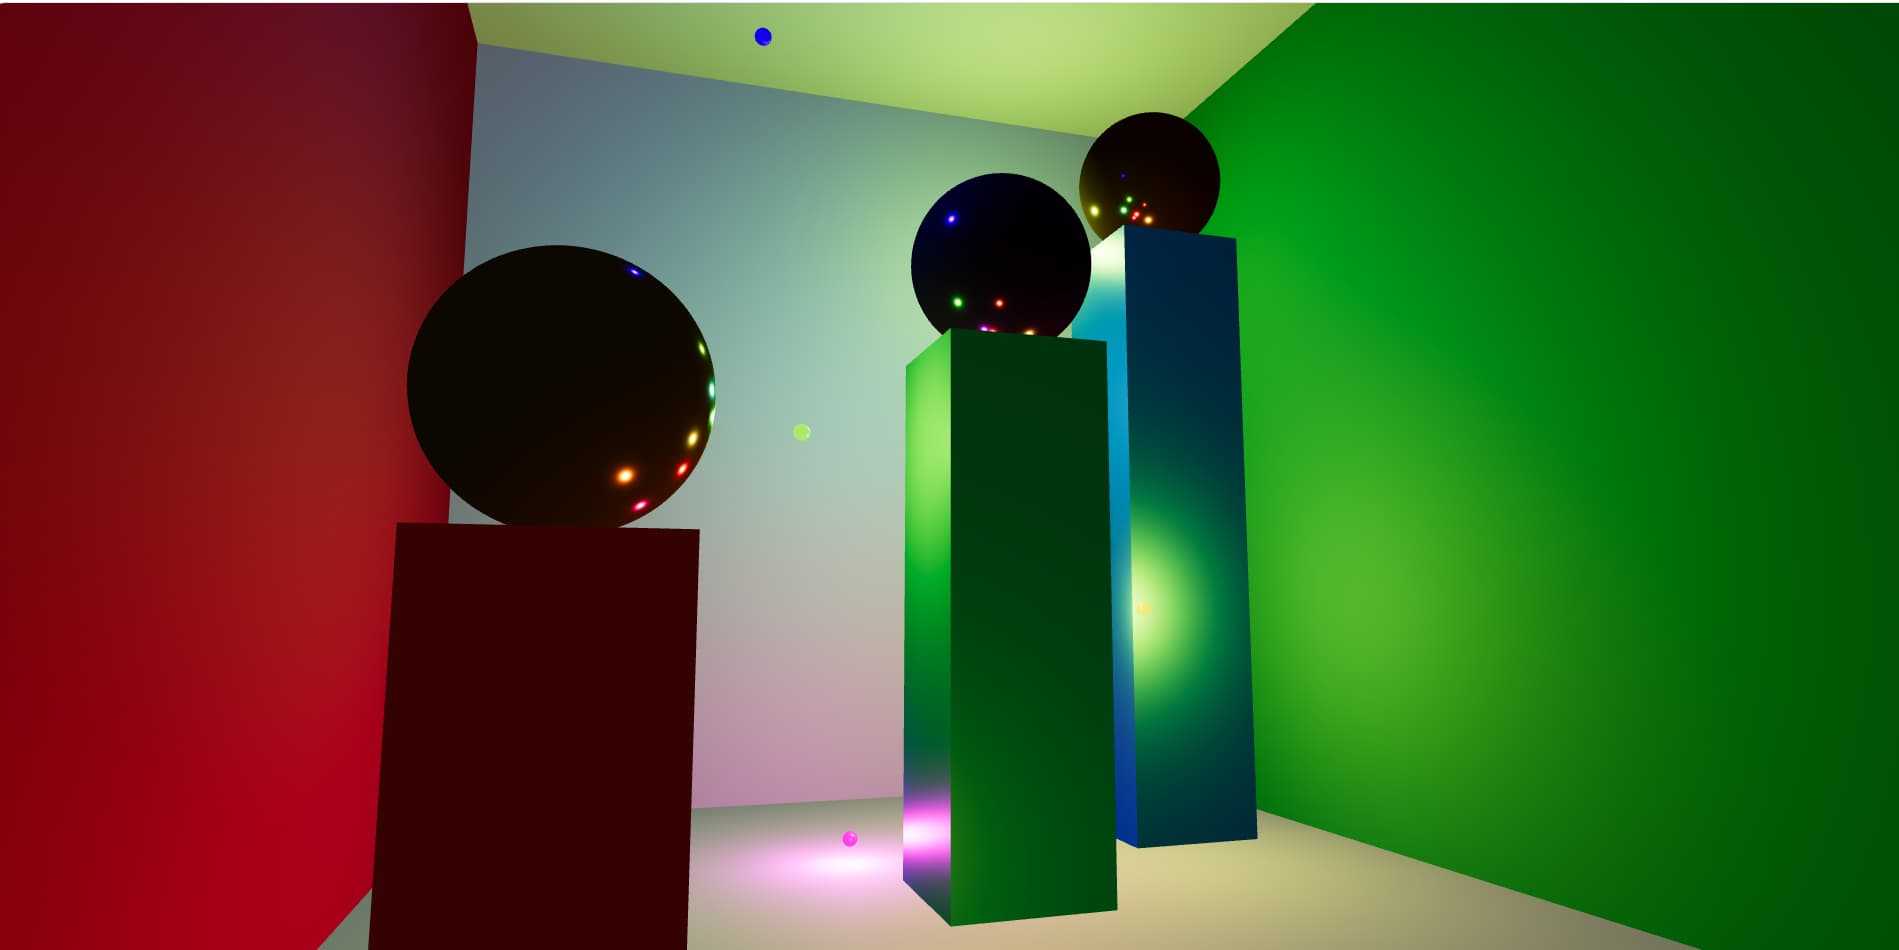
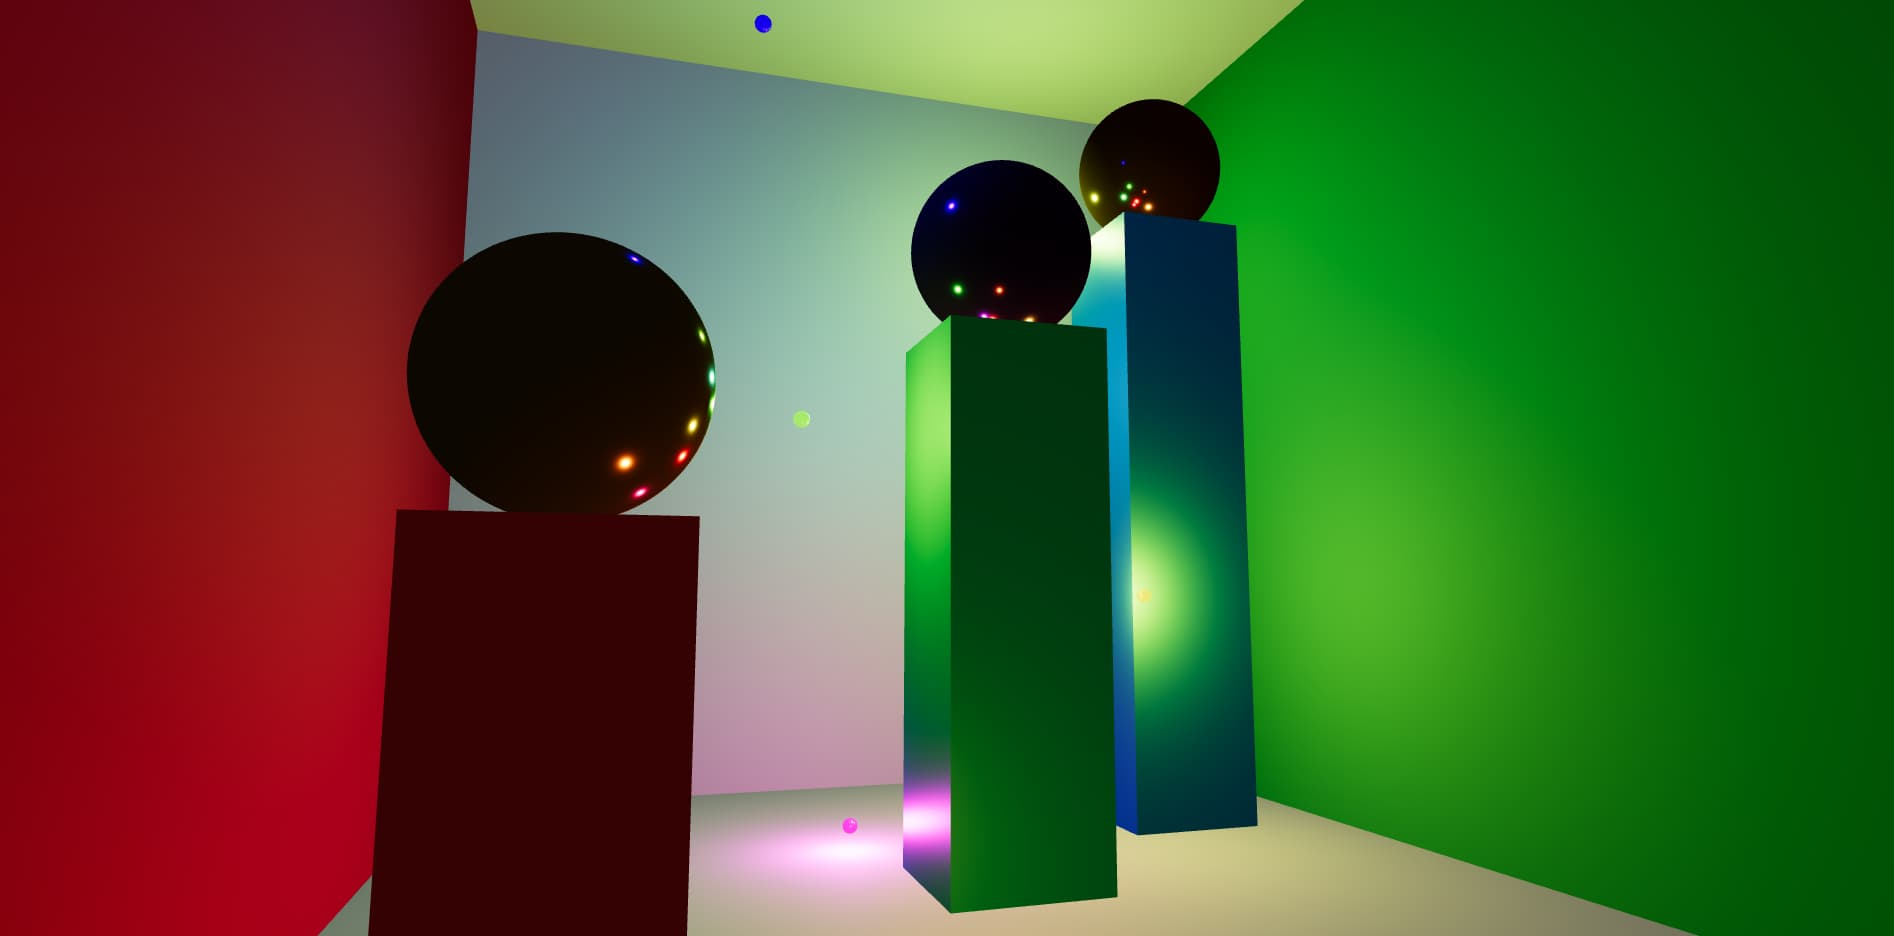
Refactor: update README structure and remove unused SVG preview

diff --git a/README.md b/README.md
@@ -1,24 +1,12 @@
-<div align="center">
+![Preview](img/preview.jpg)
+<div>
 
 # Cornell Box
 
 ### *An interactive lighting scene built with Three.js*
-
-![Preview](img/preview.jpg)
-
 <br/>
-
-![Three.js](https://img.shields.io/badge/Three.js-v0.164-black?style=flat-square&logo=three.js)
-![HTML5](https://img.shields.io/badge/HTML5-E34F26?style=flat-square&logo=html5&logoColor=white)
-![CSS3](https://img.shields.io/badge/CSS3-1572B6?style=flat-square&logo=css3&logoColor=white)
-![JavaScript](https://img.shields.io/badge/JavaScript-F7DF1E?style=flat-square&logo=javascript&logoColor=black)
-
-<br/>
-
-```
 A 3D scene that explores lighting, materials, and movement
 within a controlled enclosed space.
-```
 
 </div>
 
@@ -351,11 +339,7 @@ Produces shadows with softened edges, more realistic than `BasicShadowMap` hard 
 ---
 
 <div align="center">
-
 *"Light doesn't just illuminate objects. It defines them."*
-
 <br/>
-
-Built with Three.js
-
+Made with ❤️ by <a href="https://sebas-dev.vercel.app/" target="_blank" rel="noopener noreferrer">Sebastián V</a>
 </div>